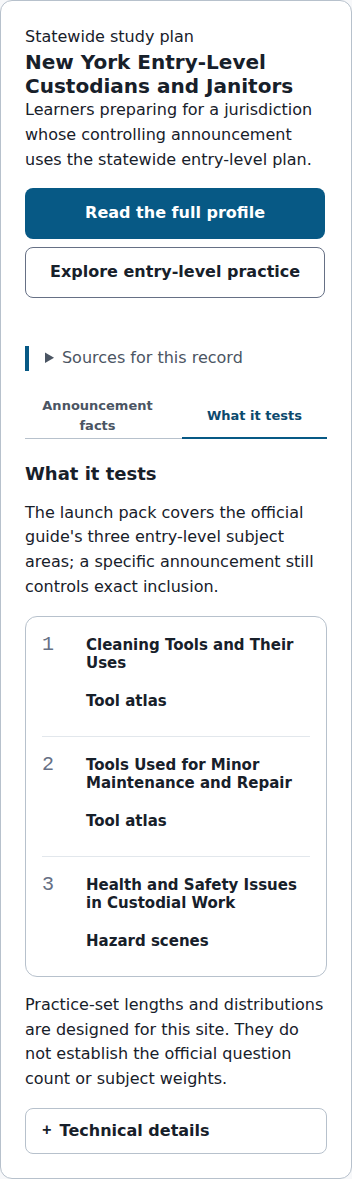
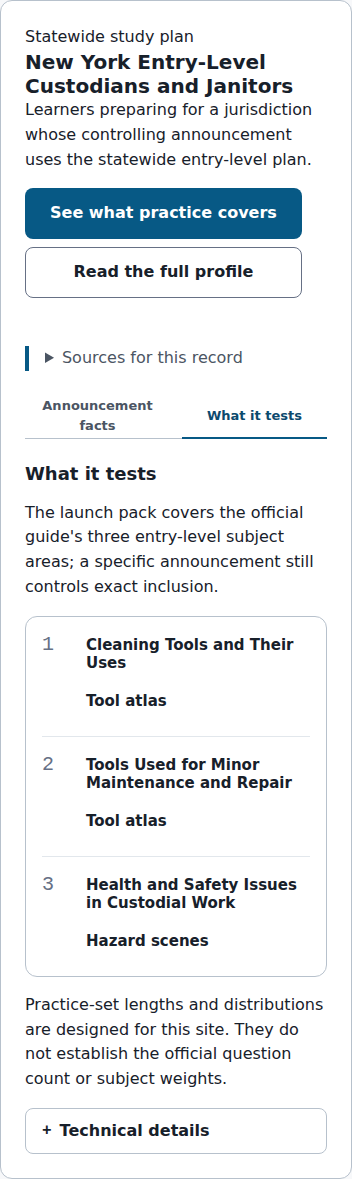
Align Exams coverage action and verify three-browser navigation

Changed region(s): [[0.125, 0.1527, 0.9375, 0.2443], [0.1562, 0.1527, 0.7812, 0.1832]]

diff --git a/apps/site/scripts/generate-pages.tsx b/apps/site/scripts/generate-pages.tsx
@@ -1319,7 +1319,7 @@ const buildPages = ({
         <div class="search-field" data-exam-search-field hidden><label class="sr-only" for="exam-search">Search announcements and study plans</label>${navIcon("search")}<input id="exam-search" type="search" data-exam-search placeholder="Title, jurisdiction, or exam number" autocomplete="off"></div>
         <p class="source-note" data-exam-count role="status">${examRecords.length} entries in the published registry.</p>
         <div class="record-board"><ul class="record-list" aria-label="Available profiles">${examRecords.map((record) => `<li data-exam-row data-exam-search-text="${escapeHtml(`${record.title} ${record.kind} ${record.profile.jurisdiction} ${record.identity?.examNumber ?? ""}`.toLowerCase())}"><a class="record-item" data-exam-choice="${record.id}" href="#${record.id}"><strong>${escapeHtml(record.title)}</strong><span class="record-kind">${escapeHtml(record.kind)}</span><span class="record-when">${escapeHtml(record.profile.jurisdiction)}</span><span class="status-chip">${record.identity === null ? "Study reference" : "Announcement on file"}</span></a></li>`).join("")}</ul>
-          <div class="record-detail-stack"><section class="record-detail" data-exam-prompt hidden><h3>Start with the title on your announcement</h3><p>Choose an entry to read its facts and source support. Reading an entry does not change your study settings.</p></section>${examRecords.map((record) => `<article class="record-detail" id="${record.id}" data-exam-panel tabindex="-1" aria-labelledby="${record.id}-heading"><div class="record-detail-header"><div><p class="record-kind">${escapeHtml(record.kind)}</p><h3 id="${record.id}-heading">${escapeHtml(record.title)}</h3><p>${escapeHtml(record.profile.audience)}</p></div><div class="record-detail-actions"><a class="button button-primary" href="${record.profile.canonicalPath}">Read the full profile</a><a class="button button-secondary" href="/practice/">Explore entry-level practice</a></div></div>
+          <div class="record-detail-stack"><section class="record-detail" data-exam-prompt hidden><h3>Start with the title on your announcement</h3><p>Choose an entry to read its facts and source support. Reading an entry does not change your study settings.</p></section>${examRecords.map((record) => `<article class="record-detail" id="${record.id}" data-exam-panel tabindex="-1" aria-labelledby="${record.id}-heading"><div class="record-detail-header"><div><p class="record-kind">${escapeHtml(record.kind)}</p><h3 id="${record.id}-heading">${escapeHtml(record.title)}</h3><p>${escapeHtml(record.profile.audience)}</p></div><div class="record-detail-actions"><a class="button button-primary" href="/practice/#covers">See what practice covers</a><a class="button button-secondary" href="${record.profile.canonicalPath}">Read the full profile</a></div></div>
             <details class="source-note record-source-trail"><summary>Sources for this record</summary>${sourceProofLine([...new Set(record.identity === null ? record.profile.testPlanCompatibility.sourceLineIds : record.facts.flatMap((fact) => [...fact.sourceLineIds, ...fact.conflictingValues.flatMap((value) => value.sourceLineIds)]))], record.identity === null ? [record.profile.contentAvailability.lastVerifiedOn] : record.facts.map((fact) => fact.reviewedOn), sourceLineById, sourceById)}</details>
             <div class="tabs" role="tablist" aria-label="${escapeHtml(record.title)} details" data-exam-tabs hidden><button type="button" id="${record.id}-facts-tab" role="tab" aria-selected="true" aria-controls="${record.id}-facts" data-record-tab="facts">Announcement facts</button><button type="button" id="${record.id}-subjects-tab" role="tab" aria-selected="false" aria-controls="${record.id}-subjects" data-record-tab="subjects" tabindex="-1">What it tests</button></div>
             <section id="${record.id}-facts" data-record-tab-panel="facts"><h4>Announcement facts</h4>${record.identity === null ? `<p>${escapeHtml(record.profile.testPlanCompatibility.detail)}</p><p>This statewide study plan has no exam number or filing period. Use your jurisdiction’s announcement for those details.</p>` : `<dl class="fact-table">${record.facts.filter((fact) => ["filing_period", "exam_date", "fee", "qualifications", "jurisdictions", "administration_status"].includes(fact.category)).map((fact) => `<div><dt>${escapeHtml(fact.label)}</dt><dd>${fact.state === "verified" ? "" : `<span class="fact-state fact-state-${fact.state}">${fact.category === "administration_status" && fact.state === "unverified" ? "Not confirmed" : factStateLabel(fact.state)}</span> `}${escapeHtml(fact.value ?? fact.detail ?? "No value asserted.")}<details class="source-note technical-details"><summary>Technical details</summary>${sourceLineLinks(fact.sourceLineIds, sourceLineById, sourceById)}<p>Checked ${escapeHtml(publicDate(fact.reviewedOn))}.</p></details></dd></div>`).join("")}</dl>`}<details class="source-note"><summary>Technical details</summary><p>${record.identity === null ? "No exam number at the statewide study-plan level." : `Exam number ${escapeHtml(record.identity.examNumber)}.`} Profile version ${record.profile.version}. Content reviewed ${escapeHtml(publicDate(record.profile.contentAvailability.lastVerifiedOn))}.</p></details></section>

diff --git a/apps/site/browser-tests/design-handoff.pw.ts b/apps/site/browser-tests/design-handoff.pw.ts
@@ -142,6 +142,7 @@ test("exam search, record selection, and detail tabs use the published records",
   const panel = page.locator("[data-exam-panel]:visible")
   await expect(panel).toHaveCount(1)
   await expect(panel).toBeFocused()
+  await expect(panel.getByRole("link", { name: "See what practice covers", exact: true })).toHaveAttribute("href", "/practice/#covers")
   const subjectTab = panel.getByRole("tab", { name: "What it tests", exact: true })
   await subjectTab.click()
   await expect(subjectTab).toHaveAttribute("aria-selected", "true")

diff --git a/design-review/2026-09-07/IMPLEMENTATION-STATUS.md b/design-review/2026-09-07/IMPLEMENTATION-STATUS.md
@@ -4,7 +4,7 @@ The active task is the complete handoff in `/mnt/models/dev/nycustodianexam/IMPL
 
 | Area | Current evidence | Remaining work |
 |---|---|---|
-| Shared navigation | `acd7a88`, 1248/384 captures, reflow/keyboard/no-JS/bottom-bar tests | Final cross-browser check after all changes |
+| Shared navigation | `acd7a88`, 1248/384 captures, reflow/keyboard/no-JS/bottom-bar tests | 48 design-handoff checks now pass across Chromium/Firefox/WebKit; repeat only if later shell changes warrant it |
 | Home | First-slice comparison gallery and notes | Final visual audit; documented live-content and system-font differences |
 | Practice hub and Review | First-slice real-save/failure captures, durable review regression tests | Final visual audit and mixed-inventory wording as builder is added |
 | Simulation setup | SETUP-ATLAS-REVIEW.md, effective lengths/timing/format; no exam prerequisite | Final integrated capture/checks |
@@ -14,7 +14,7 @@ The active task is the complete handoff in `/mnt/models/dev/nycustodianexam/IMPL
 | Hazard player | HAZARD-PLAYER-REVIEW.md: responsive workspace, header/save panel, nine real-state captures and nine regression tests | Visual/keyboard layout, integrated retained-image overlay, correction/safe groups and compact recovery captured; final cross-browser and matching-width visual audit remain |
 | Simulation player/results | SIMULATION-NAVIGATOR-REVIEW.md: navigator/confirmation layout, cancel focus, desktop/compact captures; 8 regression tests | Full player, timer and results visual reconciliation |
 | Print configuration | Ten products and effective controls; reviewed document scope | PRINT-OUTPUT-REVIEW.md: actual Letter/A4 question PDFs and searchable-text fix; remaining preview comparison, large-print/illustration pagination and failure/stale captures |
-| Exams / Settings / Offline / report | UTILITY-PAGES-REVIEW.md: first-visit desktop/compact captures, Settings action layout/Offline grouping and recovery checks | Delete preview cancellation/captures verified; returning summaries, live export counts, Offline installed summary, Exams board/action wording and report comparison remain; all record/tab states captured; actual Offline active/removal/unavailable states captured |
+| Exams / Settings / Offline / report | UTILITY-PAGES-REVIEW.md: first-visit desktop/compact captures, Settings action layout/Offline grouping and recovery checks | Delete preview cancellation/captures verified; returning summaries, live export counts, Offline installed summary, Exams board visual audit and report comparison remain; coverage action and three-browser navigation checks pass; all record/tab states captured; actual Offline active/removal/unavailable states captured |
 | Final validation/publication | First-slice local commit; next slice in progress | Full relevant checks, evidence index, clean local commits, reviewable publication; never merge/deploy automatically |
 
 Important discovered content difference: simulation metadata has 30 cleaning, 37 maintenance, 5 safety, and 18 mixed/scenario questions, not the prototype's 34/26/30. Preserve real classification and counts. Internal session/profile/version references remain required; global exam selection is removed.

diff --git a/design-review/2026-09-07/EXAM-RECORD-REVIEW.md b/design-review/2026-09-07/EXAM-RECORD-REVIEW.md
@@ -7,3 +7,9 @@ The complete record-level source list now uses a native “Sources for this reco
 Build/artifact invariants and all 16 design-handoff Chromium checks pass, including exam search/tab navigation and no-JavaScript navigation. The script's localStorage comparison does not independently prove absence of every possible persistence effect; the static exam enhancement contains no storage writes and does not set a global active exam.
 
 Remaining: final comparison of the board/hero and action wording against Landing.dc.html, plus cross-browser verification. Live facts and longer source-supported scope descriptions intentionally differ from prototype fixtures.
+
+## Coverage action and cross-browser pass
+
+The primary record action now says “See what practice covers” and links to the existing `/practice/#covers` explanation. The full-profile link remains secondary. Its label stays “Read the full profile,” accurately describing its destination rather than suggesting it opens the visitor’s own announcement. All record/tab captures were refreshed.
+
+Build/artifact checks pass. All 48 `design-handoff.pw.ts` checks pass across Chromium, Firefox and WebKit (16 per browser), including exam search/tab behavior, coverage-link destination, compact Library navigation, no-JavaScript navigation, page reflow and Atlas fallback. Command: `NYCUSTODIAN_PLAYWRIGHT_BASE_URL=http://127.0.0.1:4187 node node_modules/@playwright/test/cli.js test browser-tests/design-handoff.pw.ts --workers=2`. This is functional cross-browser evidence for that file’s scope; full workflows and visual comparison are still separate gates.
